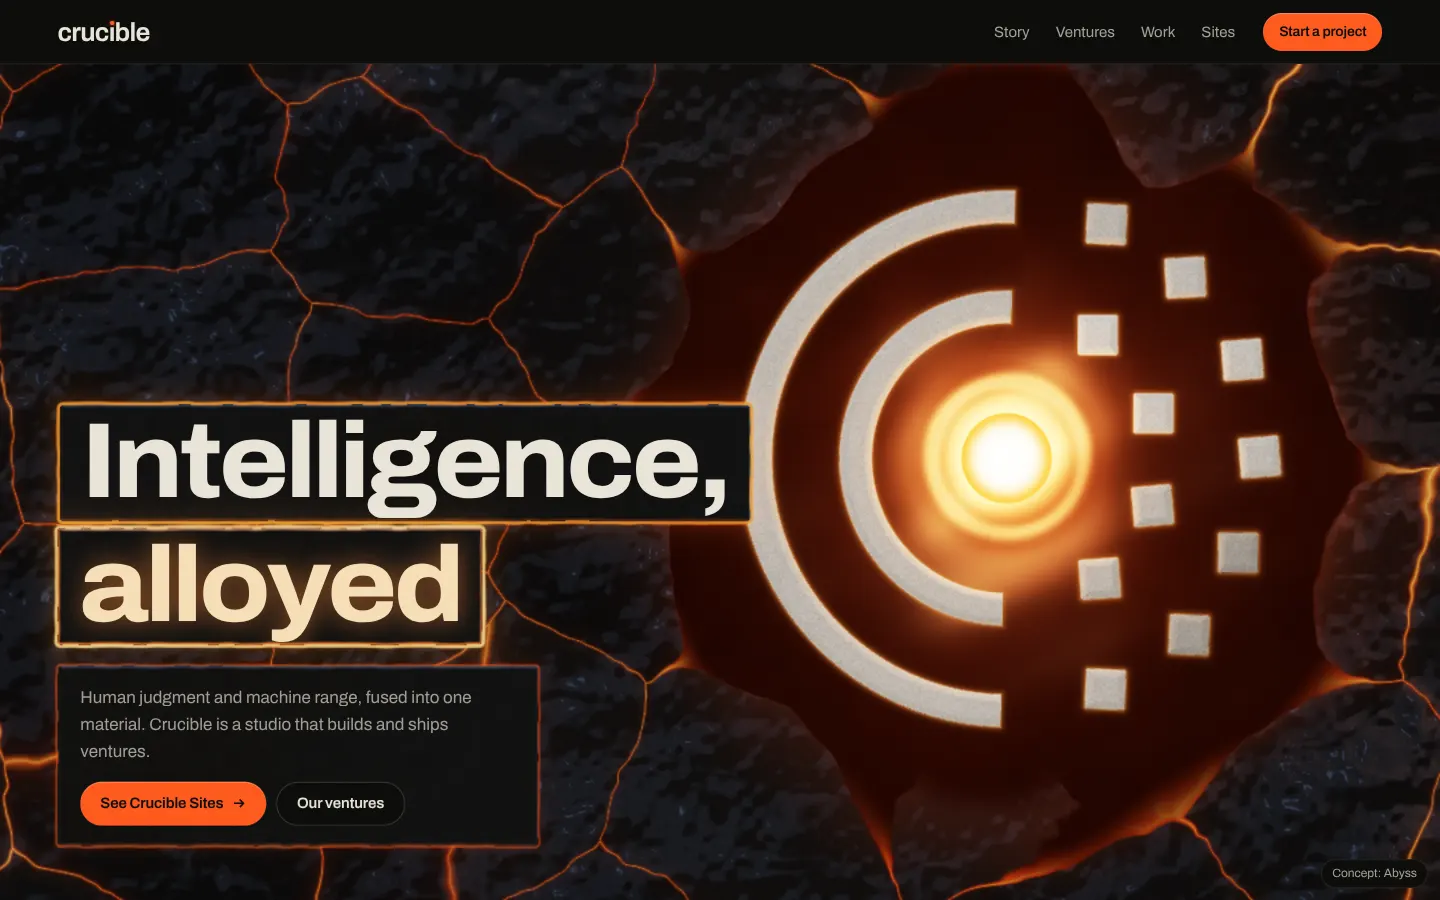
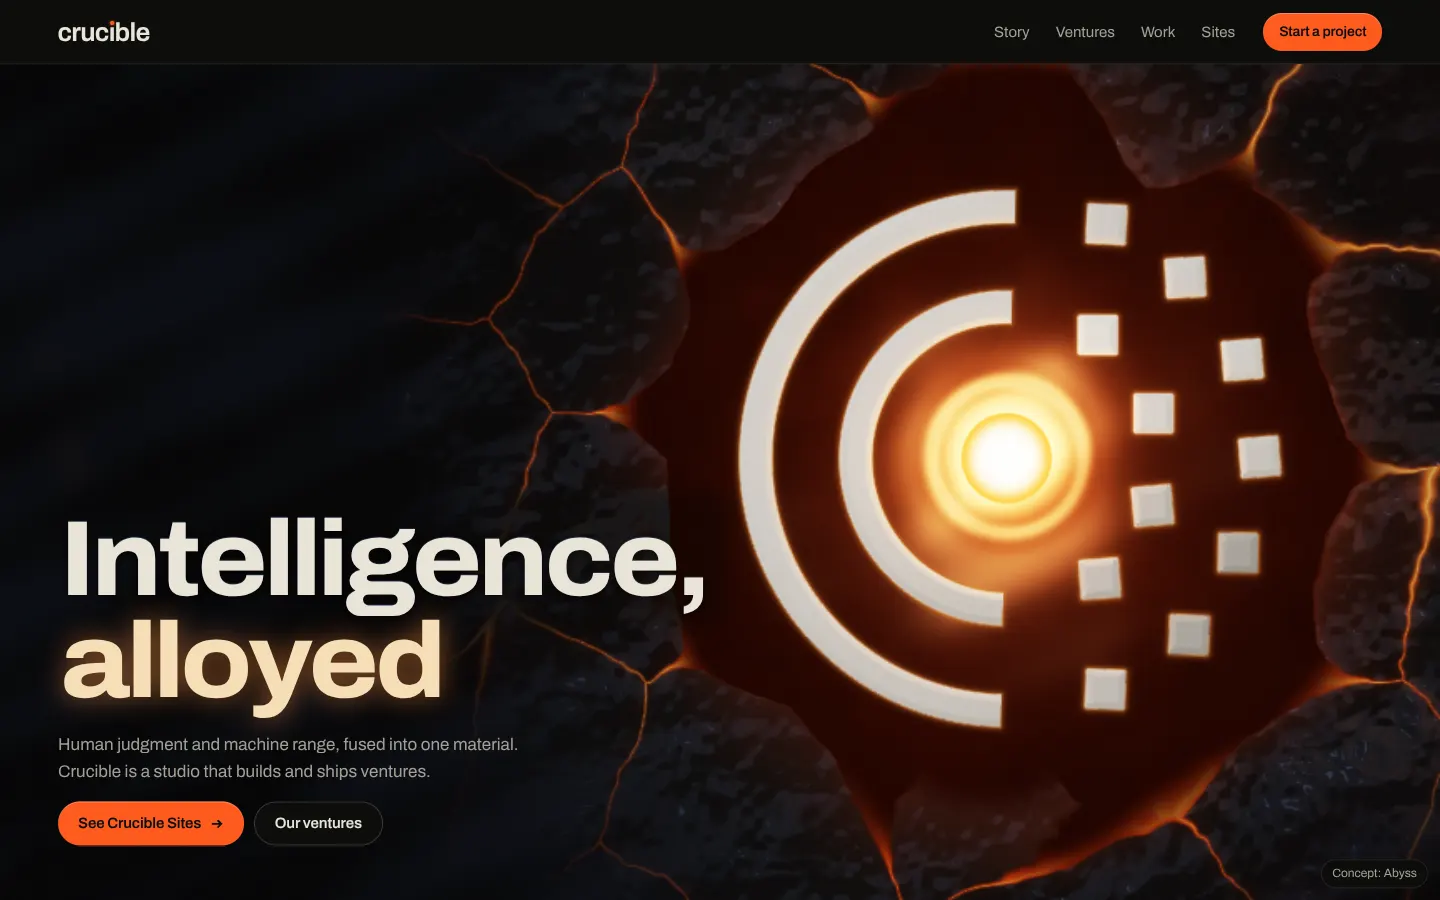
Abyss concept: calm sea, no plates behind type, branching PayPal rivers, seamless molten bars, quote once
Claude-Session: https://claude.ai/code/session_01PrrUSitYmSR7aDjHHAhibr

diff --git a/concepts/abyss/index.html b/concepts/abyss/index.html
@@ -74,12 +74,15 @@ html.gl #sea { background: var(--ground); }
 [data-plate] { position: relative; }
 .bob { display: block; will-change: transform; }
 .slug > .bob, .slug { display: inline-block; }
-html:not(.gl) [data-plate] { background: #11100d; box-shadow: 0 0 0 1px #4a1c0a; }
 html:not(.gl) .bar { background: #b9b3a5; }
 html:not(.gl) .bar[data-k="4"] { background: #e2541c; }
 
 .h-display { font-weight: 760; font-variation-settings: 'wdth' 108; letter-spacing: -0.035em; line-height: 0.92; margin: 0; }
-.slug { padding: 0.07em 0.2em 0.1em; margin: 0 0 0.08em; }
+.slug { padding: 0; margin: 0 0 0.04em; }
+/* Type is the cooled metal: a cool line of sky on the top of each letter, a little heat below (no plates, no boxes). */
+.h-display { text-shadow: 0 -1px 0 rgb(124 182 255 / 0.18), 0 2px 10px rgb(0 0 0 / 0.6); }
+.said { display: block; margin: 0.5em 0 0.6em; font-size: clamp(30px, 3.4vw, 54px); line-height: 1.02; font-weight: 740;
+  font-variation-settings: 'wdth' 108; letter-spacing: -0.03em; color: var(--bone); }
 /* Display words cool as they surface: hot (--c 0) to bone (--c 1). */
 .cool { color: color-mix(in oklab, var(--bone) calc(var(--c, 1) * 100%), #ff8a3d);
   opacity: clamp(0, calc((var(--e, 1) - 0.35) * 2.2), 1); }
@@ -96,7 +99,7 @@ section { position: relative; }
 .hero-copy { position: absolute; left: var(--gx); right: var(--gx); bottom: clamp(28px, 6vh, 72px); }
 .hero-copy h1 { font-size: clamp(54px, 7.4vw, 132px); }
 .hero-copy h1 .slug { display: table; }
-.hero-meta { margin-top: 22px; max-width: 30rem; padding: 18px 22px 20px; }
+.hero-meta { margin-top: 22px; max-width: 30rem; }
 .hero-meta p { margin: 0 0 16px; color: var(--bone-dim); }
 .hero-meta .row { display: flex; flex-wrap: wrap; gap: 10px; }
 .alloyed { opacity: clamp(0, calc((var(--e, 1) - 0.35) * 2.2), 1); color: color-mix(in oklab, var(--bone) calc(var(--c, 1) * 100%), #ffd9a0);
@@ -109,7 +112,6 @@ html:not(.gl) .mark-still { display: block; }
 @media (max-width: 1023px) { .mark-still { right: auto; left: 50%; top: calc(64px + 27vh); width: min(80vw, 40vh); transform: translate(-50%, -50%); } }
 @media (max-width: 1023px) {
   .hero-copy h1 { font-size: clamp(44px, 12.2vw, 92px); }
-  .hero-meta { padding: 14px 16px 16px; }
   .hero-meta p { font-size: 15.5px; }
   .beat { font-size: clamp(40px, 11.5vw, 80px); }
 }
@@ -119,10 +121,10 @@ html:not(.gl) .mark-still { display: block; }
 .sec-head { font-size: clamp(48px, 8vw, 140px); margin-bottom: 8vh; }
 .chapter { display: grid; gap: 28px; margin-bottom: 14vh; }
 .who { display: flex; flex-direction: column; gap: 14px; align-self: start; }
-.who-name { padding: 14px 18px; }
+.who-name { padding: 4px 0 0 11px; }
 .who-name h3 { margin: 0; font-size: 28px; font-weight: 720; font-variation-settings: 'wdth' 112; letter-spacing: -0.02em; line-height: 1.05; }
 .who-name p { margin: 4px 0 0; font-size: 15px; color: var(--bone-dim); }
-.text { padding: clamp(20px, 3vw, 40px); max-width: 44rem; }
+.text { max-width: 40rem; font-size: 18px; line-height: 1.65; }
 .text p { margin: 0 0 1.1em; }
 .text p:last-child { margin-bottom: 0; }
 @media (min-width: 1024px) {
@@ -149,15 +151,15 @@ html:not(.gl) .mark-still { display: block; }
 /* PayPal: one source, six rivers, six castings. */
 #paypal { height: 300vh; margin-bottom: 8vh; }
 .pp { position: absolute; inset: var(--nav-h) 0 0; }
-.pp-node { position: absolute; transform: translate(-50%, -50%); padding: 8px 14px 9px; font-weight: 700; letter-spacing: -0.02em;
+.pp-node { position: absolute; transform: translate(-50%, -50%); padding: 6px 4px; font-weight: 700; letter-spacing: -0.02em;
   font-variation-settings: 'wdth' 112; font-size: clamp(16px, 1.6vw, 24px); line-height: 1; white-space: nowrap; }
-.pp-src { font-size: clamp(30px, 3.6vw, 56px); padding: 12px 20px 14px; }
-.pp-cap { position: absolute; left: var(--gx); right: var(--gx); bottom: 6vh; max-width: 34rem; padding: 14px 18px; font-size: clamp(17px, 1.4vw, 21px); }
+.pp-src { font-size: clamp(34px, 4.2vw, 64px); }
+.pp-cap { position: absolute; left: var(--gx); right: var(--gx); bottom: 6vh; max-width: 34rem; font-size: clamp(17px, 1.4vw, 21px); }
 .pp-cap p { margin: 0; }
 
 /* ---------------- Ventures ---------------- */
 #ventures { padding: 16vh 0 10vh; }
-#ventures .lead { padding: 12px 18px; margin: 0 0 12vh; display: inline-block; font-size: clamp(18px, 1.6vw, 22px); }
+#ventures .lead { margin: 0 0 12vh; display: inline-block; font-size: clamp(18px, 1.6vw, 22px); }
 .venture { display: grid; gap: 22px; margin: 0 0 18vh; text-decoration: none; color: inherit; cursor: pointer; -webkit-tap-highlight-color: transparent; }
 .bar { position: relative; width: 100%; max-width: 620px; aspect-ratio: 8 / 5; display: flex; align-items: center; }
 .bar .bob { width: 100%; height: 100%; position: relative; }
@@ -165,7 +167,7 @@ html:not(.gl) .mark-still { display: block; }
   letter-spacing: -0.03em; line-height: 0.95; font-size: clamp(26px, 4.4vw, 52px); color: var(--ink); opacity: clamp(0, calc((var(--e, 1) - 0.7) * 4), 1);
   text-shadow: 0 1px 0 rgb(255 255 255 / 0.35), 0 -1px 0 rgb(0 0 0 / 0.35); }
 .bar[data-k="4"] .stamp { left: 12%; color: var(--molten-ink); text-shadow: 0 1px 0 rgb(255 200 120 / 0.35); font-size: clamp(36px, 6.4vw, 80px); }
-.v-info { padding: 22px 24px 24px; max-width: 34rem; align-self: center; }
+.v-info { max-width: 34rem; align-self: center; }
 .v-status { font-size: 14px; font-weight: 600; margin: 0 0 10px; display: flex; align-items: center; gap: 8px; }
 .v-status i { width: 8px; height: 8px; border-radius: 50%; background: var(--quench); display: inline-block; }
 .v-status.hot i { background: var(--ember); box-shadow: 0 0 8px var(--ember); }
@@ -191,14 +193,14 @@ html:not(.gl) .mark-still { display: block; }
 .th h2 { font-size: clamp(46px, 7.6vw, 136px); }
 .th h2 .slug { display: table; }
 .th-meta { display: flex; flex-wrap: wrap; gap: 14px; align-items: stretch; }
-.th-meta > div { padding: 14px 18px; }
+.th-meta { gap: 28px; }
 .th-meta p { margin: 0; font-size: clamp(17px, 1.4vw, 21px); }
 .kelvin { font-family: ui-monospace, SFMono-Regular, Menlo, monospace; font-size: clamp(22px, 2vw, 30px); font-variant-numeric: tabular-nums; color: var(--bone); }
 .th-meta small { font-size: 13px; color: var(--bone-dim); font-family: Archivo, sans-serif; display: block; }
 
 /* ---------------- Footer: the shore ---------------- */
 footer { position: relative; min-height: 112vh; padding: 0 var(--gx) 40px; display: flex; flex-direction: column; justify-content: flex-end; }
-.cta { padding: 20px 24px 22px; max-width: 30rem; margin-bottom: 26vh; align-self: flex-start; }
+.cta { max-width: 30rem; margin-bottom: 26vh; align-self: flex-start; }
 .cta h2 { font-size: clamp(30px, 3.4vw, 50px); margin-bottom: 14px; }
 .cta p { margin: 0 0 18px; color: var(--bone-dim); }
 .foot-giant { font-size: clamp(88px, 23vw, 380px); line-height: 0.8; margin: 0 0 3vh -0.04em; color: var(--bone); }
@@ -297,7 +299,6 @@ html.still .v-name.molten { animation: none; }
       <article class="chapter" aria-label="Jacob Schopp, continued">
         <div class="who"></div>
         <div>
-          <h3 class="pull h-display" aria-label="I want to know what happens when a group like it comes together earlier"><span class="slug cool" data-plate data-k="1"><span class="bob">I want to know what happens</span></span> <span class="slug cool" data-plate data-k="1"><span class="bob">when a group like it</span></span> <span class="slug cool" data-plate data-k="1"><span class="bob">comes together earlier</span></span></h3>
           <div class="text fade" data-plate data-k="0" id="jacobB"><div class="bob"></div></div>
         </div>
       </article>
@@ -414,6 +415,9 @@ const CHARLIE = [
 const fill = (id, ps) => { document.querySelector('#' + id + ' .bob').innerHTML = ps.map((p) => `<p>${p}</p>`).join(''); };
 fill('jacobA', JACOB.slice(0, 2));
 fill('jacobB', JACOB.slice(2));
+// Jacob's line, set once and in place: the sentence itself grows inside his paragraph
+(() => { const p = document.querySelector('#jacobB p'); const q = 'I want to know what happens when a group like it comes together earlier.';
+  p.innerHTML = p.innerHTML.replace(q, `<span class="said">${q}</span>`); })();
 fill('charlie', CHARLIE);
 
 // The mark: Jacob's logo family (lib/splitRing.ts, 48-unit grid carried into the 64 box, U = 4/3): rings r 20 / 12,
@@ -684,6 +688,27 @@ void main() {
   crust *= 1.0 - open;
   vec3 col = mix(lava, crustC, crust);
 
+  // ---------- the calm sea: most of every screen ----------
+  // a thin dark skin over the metal, glassy, a faint deep red where it runs thin, the sky in it.
+  // Crust plates and bright seams only where something happens: round the ring's pool, the Thesis heat, the surf.
+  float rcN = uLogo.y > 0.5 ? length(sp - uPc[16].xy) / uLogo.x : 1e4;
+  float crustAmt = 0.0;
+  if (uLogo.y > 0.5) crustAmt = smoothstep(72.0, 44.0, rcN + 10.0 * (wn - 0.5)) * uLogo.z;
+  crustAmt = max(crustAmt, smoothstep(0.0, 0.35, heat));
+  crustAmt = max(crustAmt, smoothstep(-480.0, -220.0, shoreDy));
+  float under = fbm(P / 420.0 + vec2(t * 0.02, -t * 0.012));
+  vec3 calm = vec3(0.016, 0.014, 0.013) + vec3(0.06, 0.008, 0.0) * smoothstep(0.42, 0.85, under);
+  vec3 R0 = reflect(vec3(0, 0, -1), n);
+  float cl0 = fbm(P / 640.0 + vec2(t * 0.01, t * 0.004) + R0.xy * 3.0);
+  vec3 sky0 = mix(vec3(0.026, 0.036, 0.056), vec3(0.07, 0.06, 0.07), smoothstep(0.45, 0.8, cl0));
+  float band0 = clamp(0.5 + 5.0 * dot(R0.xy, normalize(vec2(-0.35, -0.94))), 0.0, 1.4);
+  calm += sky0 * (0.3 + 0.6 * band0);
+  calm += vec3(0.5, 0.66, 0.95) * pow(max(dot(R0, Ls), 0.0), 700.0) * (0.1 + 0.9 * smoothstep(0.02, 0.12, slope)) * 0.5;
+  // a wake on the glass: its crests catch a little heat; the keel cuts the skin to the glow below, then it heals
+  calm += bb(0.5) * crestL * 0.3;
+  calm = mix(calm, bb(0.5 + 0.3 * smoothstep(0.4, 1.2, br) + 0.1 * flow), smoothstep(0.2, 0.9, br) * 0.85);
+  col = mix(calm, col, crustAmt);
+
   // ---------- the Split Ring ----------
   if (uLogo.y > 0.5) {
     float u = uLogo.x;
@@ -716,11 +741,12 @@ void main() {
       vec3 pn = normalize(vec3(g * (1.0 - bev) * 1.6, 1.0));
       pn = normalize(pn + vec3(grad * 0.6 + vec2(lift) * 0.0, 0.0));
       float gr = vn(bq * 6.0 + float(bi) * 7.0) * 0.6 + vn(bq * 17.0) * 0.4;
-      vec3 alb = vec3(0.91, 0.89, 0.85) * (0.62 + 0.16 * gr);
+      vec3 alb = vec3(0.93, 0.90, 0.85) * (0.84 + 0.05 * gr);
       vec3 Lk = normalize(vec3(cc - sp, 3.0 * u));
       float key = max(dot(pn, Lk), 0.0);
       float fk = 1.0 / (1.0 + rc * rc / 400.0);
-      vec3 mc = alb * (vec3(1.05, 1.0, 0.94) + vec3(1.0, 0.55, 0.25) * key * fk * 1.2 * uLogo.z);
+      vec3 mc = alb * (vec3(0.95, 0.92, 0.88) + vec3(1.0, 0.55, 0.25) * key * fk * 1.0 * uLogo.z);
+      mc *= 0.92 + 0.16 * smoothstep(-1.0, 1.0, dot(normalize(sp - cc), vec2(-0.6, -0.8)));     // a soft sheen across the metal
       mc += alb * vec3(0.30, 0.38, 0.52) * max(dot(pn, normalize(vec3(-0.4, -0.6, 1.0))), 0.0) * 0.45;   // cool fill from above
       vec3 Rp = reflect(vec3(0, 0, -1), pn);
       mc += vec3(0.55, 0.72, 1.0) * pow(max(dot(Rp, normalize(vec3(-0.35, -0.5, 1.0))), 0.0), 40.0) * 0.35 * (1.0 - bev * 0.7);
@@ -752,12 +778,18 @@ void main() {
       float bd = 1e9, bt = 0.0; vec2 prev = S;
       for (int k = 1; k <= 14; k++) {
         float tt = float(k) / 14.0; vec2 cur = mix(mix(S, C, tt), mix(C, D, tt), tt);
+        vec2 dir = normalize(D - S); vec2 nrm = vec2(-dir.y, dir.x);
+        cur += nrm * sin(tt * 9.0 + float(i) * 0.9 * tt) * 16.0 * tt * (1.0 - tt) * 4.0 * tt;   // meanders, once branched
         float hh; float d = segP(sp, prev, cur, hh);
         if (d < bd) { bd = d; bt = (float(k - 1) + hh) / 14.0; }
         prev = cur;
       }
       float L = length(D - S) * 1.15;
-      float w = uRp[i].z * (1.0 - 0.45 * coolR) * (0.8 + 0.4 * vn(vec2(bt * L / 40.0 - t * 0.6, float(i))));
+      float w = uRp[i].z * (1.0 - 0.45 * coolR) * (0.8 + 0.4 * vn(vec2(bt * L / 40.0 - t * 0.6, float(i)))) * (1.35 - 0.6 * bt);
+      float rd = length(sp - D) / 16.0;
+      // the river ends in a small pool beside its name: hot as it arrives, cooling with the rest
+      col = mix(col, bb(mix(0.8, 0.45, coolR) + 0.06 * flow), (1.0 - smoothstep(0.75, 1.0, rd)) * uRp[i].y);
+      col += bb(mix(0.62, 0.38, coolR)) * exp(-max(rd - 1.0, 0.0) / 1.2) * step(1.0, rd) * uRp[i].y * 0.35;
       float ahead = (bt - head) * L;                 // px past the front
       float on = 1.0 - smoothstep(-2.0, 6.0, ahead);
       float fr = exp(-pow(ahead / 18.0, 2.0)) * (1.0 - coolR);
@@ -768,8 +800,9 @@ void main() {
       col = mix(col, bb(temp), river);
       col += bb(temp * 0.8) * glow * 0.35 * (1.0 - river);
     }
-    float dS = length(sp - S);
-    col = mix(col, bb(0.7 + 0.2 * flow - 0.2 * coolR), smoothstep(110.0, 40.0, dS) * 0.8);
+    float rS = length(sp - S) / 22.0;
+    col = mix(col, bb(0.82 + 0.1 * flow - 0.25 * coolR), 1.0 - smoothstep(0.8, 1.0, rS));
+    col += bb(0.6 - 0.15 * coolR) * exp(-max(rS - 1.0, 0.0) / 1.5) * step(1.0, rS) * 0.4;
   }
 
   // ---------- the shore: glowing surf on black sand ----------
@@ -828,6 +861,12 @@ void main() {
     float ir = (vn(sp * 0.07 + float(i) * 13.0) - 0.5) * (kind >= 3 ? 0.8 : 1.4);
     d += ir;
     if (d > 70.0) continue;
+    if (kind <= 2) {
+      // type sits straight on the sea; under it, nothing hot may get bright (AA at any moment)
+      float m = (1.0 - smoothstep(0.0, 36.0, d - ir)) * smoothstep(0.1, 0.5, M.x);
+      col = mix(col, min(col, vec3(0.10, 0.09, 0.09)), m);
+      continue;
+    }
     float e = M.x, hov = M.z;
     float up = smoothstep(0.15, 0.85, e);
     // outside: the lava parts around it, a hot seam on its edge
@@ -895,14 +934,12 @@ void main() {
         // a bar still molten: blackbody glow, a dark crust drifting with cracks
         float wall = min(hb.x, hb.y) * 0.13;
         float bev = 1.0 - smoothstep(0.0, wall, id);
-        vec2 bq2 = lp + 6.0 * vec2(vn(lp / 18.0), vn(lp / 18.0 + 4.0));
-        vec3 vb = voro(bq2 / 58.0 + vec2(t * 0.03, t * 0.012) + float(i) * 5.0, t * 0.15);
-        float sb = (vb.y - vb.x) * 29.0 * (0.7 + 0.6 * vn(bq2 / 40.0));
-        float cr = 1.0 - smoothstep(0.4, 1.6, sb);                 // bright cracks
-        float fb = fbm(lp / 70.0 + vec2(t * 0.08, 0.0) + float(i));
-        float skin = 0.47 + 0.12 * fb + 0.06 * vb.z;               // a cooling skin, dark orange
-        float tb = mix(skin, 0.86, cr) - 0.16 * bev * (1.0 - cr) + 0.1 * hov + 0.03 * sin(t * 1.3 + float(i));
-        mc = bb(tb) * (0.9 + 0.2 * fb);
+        // seamless: one uninterrupted glow, slow convection moving under it, hottest in the middle
+        float fb = fbm(lp / 110.0 + vec2(t * 0.05, -t * 0.03) + float(i));
+        float fb2 = fbm(lp / 40.0 - vec2(t * 0.09, 0.0) + float(i) * 3.0);
+        float mid = 1.0 - length(lp / hb) * 0.5;
+        float tb = 0.6 + 0.12 * fb + 0.04 * fb2 + 0.08 * mid - 0.14 * bev + 0.08 * hov + 0.02 * sin(t * 1.3 + float(i));
+        mc = bb(tb);
         vec2 g = normalize(vec2(dFdx(d), -dFdy(d)) + 1e-6);
         mc += vec3(1.0, 0.82, 0.55) * exp(-abs(id - wall) / 1.5) * 0.22;                        // the hot fillet
         mc *= 1.0 - 0.35 * bev * max(dot(g, vec2(0.0, -1.0)), 0.0);                             // walls facing away a touch darker
@@ -1151,8 +1188,8 @@ function step(dt) {
       p.tilt = gx * 3;
     } else { p.bx = p.by = 0; p.tilt = 0; }
     // a venture surfacing: ripples ring out once as it breaks the surface
-    if (p.k >= 3) {
-      if (p.e > 0.5 && !p.rang) { p.rang = true; srcs.push({ ax: cx - r.width * 0.3, ay: cy, bx: cx + r.width * 0.3, by: cy, r: 7, push: 900, brk: 2, ring: r.height * 0.5 + 6 }); }
+    if (p.k >= 1 || r.height < 260) {
+      if (p.e > 0.5 && !p.rang && r.bottom > 0 && r.top < VH) { p.rang = true; srcs.push({ ax: cx - r.width * 0.3, ay: cy, bx: cx + r.width * 0.3, by: cy, r: 7, push: p.k >= 3 ? 900 : 420, brk: p.k >= 3 ? 2 : 0, ring: r.height * 0.5 + 6 }); }
       if (p.e < 0.2) p.rang = false;
     }
   }
@@ -1337,15 +1374,20 @@ function draw(t, sy, HP, PP) {
   if (ppOn) {
     const nodes = plates.filter((p) => p.pp >= 0).sort((a, b) => a.pp - b.pp);
     const ctr = (p) => [p.rect.left + p.rect.width / 2 + p.bx, p.rect.top + p.rect.height / 2 + p.by];
-    const S0 = ctr(nodes[0]);
+    // the source pool sits just past PayPal, each end pool just before its name
+    const src = nodes[0].rect;
+    const S0 = wide ? [src.right + 26 + nodes[0].bx, src.top + src.height / 2 + nodes[0].by] : [src.left + src.width / 2, src.bottom + 26 + nodes[0].by];
+    const end = (p) => wide ? [p.rect.left - 20 + p.bx, p.rect.top + p.rect.height / 2 + p.by] : [p.rect.left + p.rect.width / 2 + p.bx, p.rect.top - 14 + p.by];
+    const ppMid = [0, 0]; for (let i = 1; i <= 6; i++) { const c = end(nodes[i]); ppMid[0] += c[0] / 6; ppMid[1] += c[1] / 6; }
     const cool = RM ? 0.5 : smooth(0.72, 1.0, PP);
     RV.set([S0[0], S0[1], 1, cool], 0);
     for (let i = 1; i <= 6; i++) {
-      const D = ctr(nodes[i]);
-      // each river leaves the source along the main direction and fans out to its company: they never cross
-      const C = wide ? [S0[0] + (D[0] - S0[0]) * 0.5, S0[1]] : [S0[0] + (D[0] - S0[0]) * 0.15, S0[1] + (D[1] - S0[1]) * 0.55];
+      const D = end(nodes[i]);
+      // one river leaves PayPal and branches: every path bends round the same point, so they run as one trunk
+      // and part gradually (never crossing)
+      const C = [S0[0] + (ppMid[0] - S0[0]) * 0.62, S0[1] + (ppMid[1] - S0[1]) * 0.62];
       RV.set([D[0], D[1], C[0], C[1]], i * 4);
-      RP.set([RM ? 1 : ppHead(i - 1, PP), 0, wide ? 6 : 4.5, 0], (i - 1) * 4);
+      RP.set([RM ? 1 : ppHead(i - 1, PP), RM ? 1 : ppArrive(i, PP), wide ? 5 : 4, nodes[i].rect.width / 2], (i - 1) * 4);
     }
   } else RV[2] = 0;
   gl.uniform4fv(U.uRv, RV); gl.uniform4fv(U.uRp, RP);

diff --git a/concepts/abyss/NOTES.md b/concepts/abyss/NOTES.md
@@ -72,3 +72,14 @@ Not tested: a real GPU frame time (no GPU here). The shader is one full-screen p
 lookups; the render scale steps down on slow frames, so a MacBook should hold 60 fps at a lower step if needed, but this
 is the first thing to measure on hardware. Shots in `shots/` (07 still shows the PayPal rivers crossing, fixed since).
 Known: faint 1-cell column stripes can show in the pool at 2x under strong ripple light (half-float grid sampling).
+
+## Round 2 (coordinator review)
+- The sea is now calm almost everywhere: a thin dark glassy skin with a faint deep-red undertone, the long swell and the
+  cool sky in it. Crust plates and bright seams only round the ring's pool, under the Thesis heat and in the surf; a
+  wake's keel cuts the skin to the glow below and heals.
+- No plates or outlines behind any text: type sits straight on the sea; under words the shader caps anything hot so
+  text stays AA. Headings still surface hot and cool to bone; ripples close round them as they come up.
+- Jacob's "I want to know what happens..." is set once, in place, growing inside his paragraph.
+- Verge and Trellis are one seamless glow (no crust), still rising out of the lava.
+- PayPal: one river leaves PayPal and branches, meandering, into six; each ends in a small pool beside its name; no boxes.
+- The ring's pieces read as smooth cast bone metal; the pool and ripples are unchanged.
